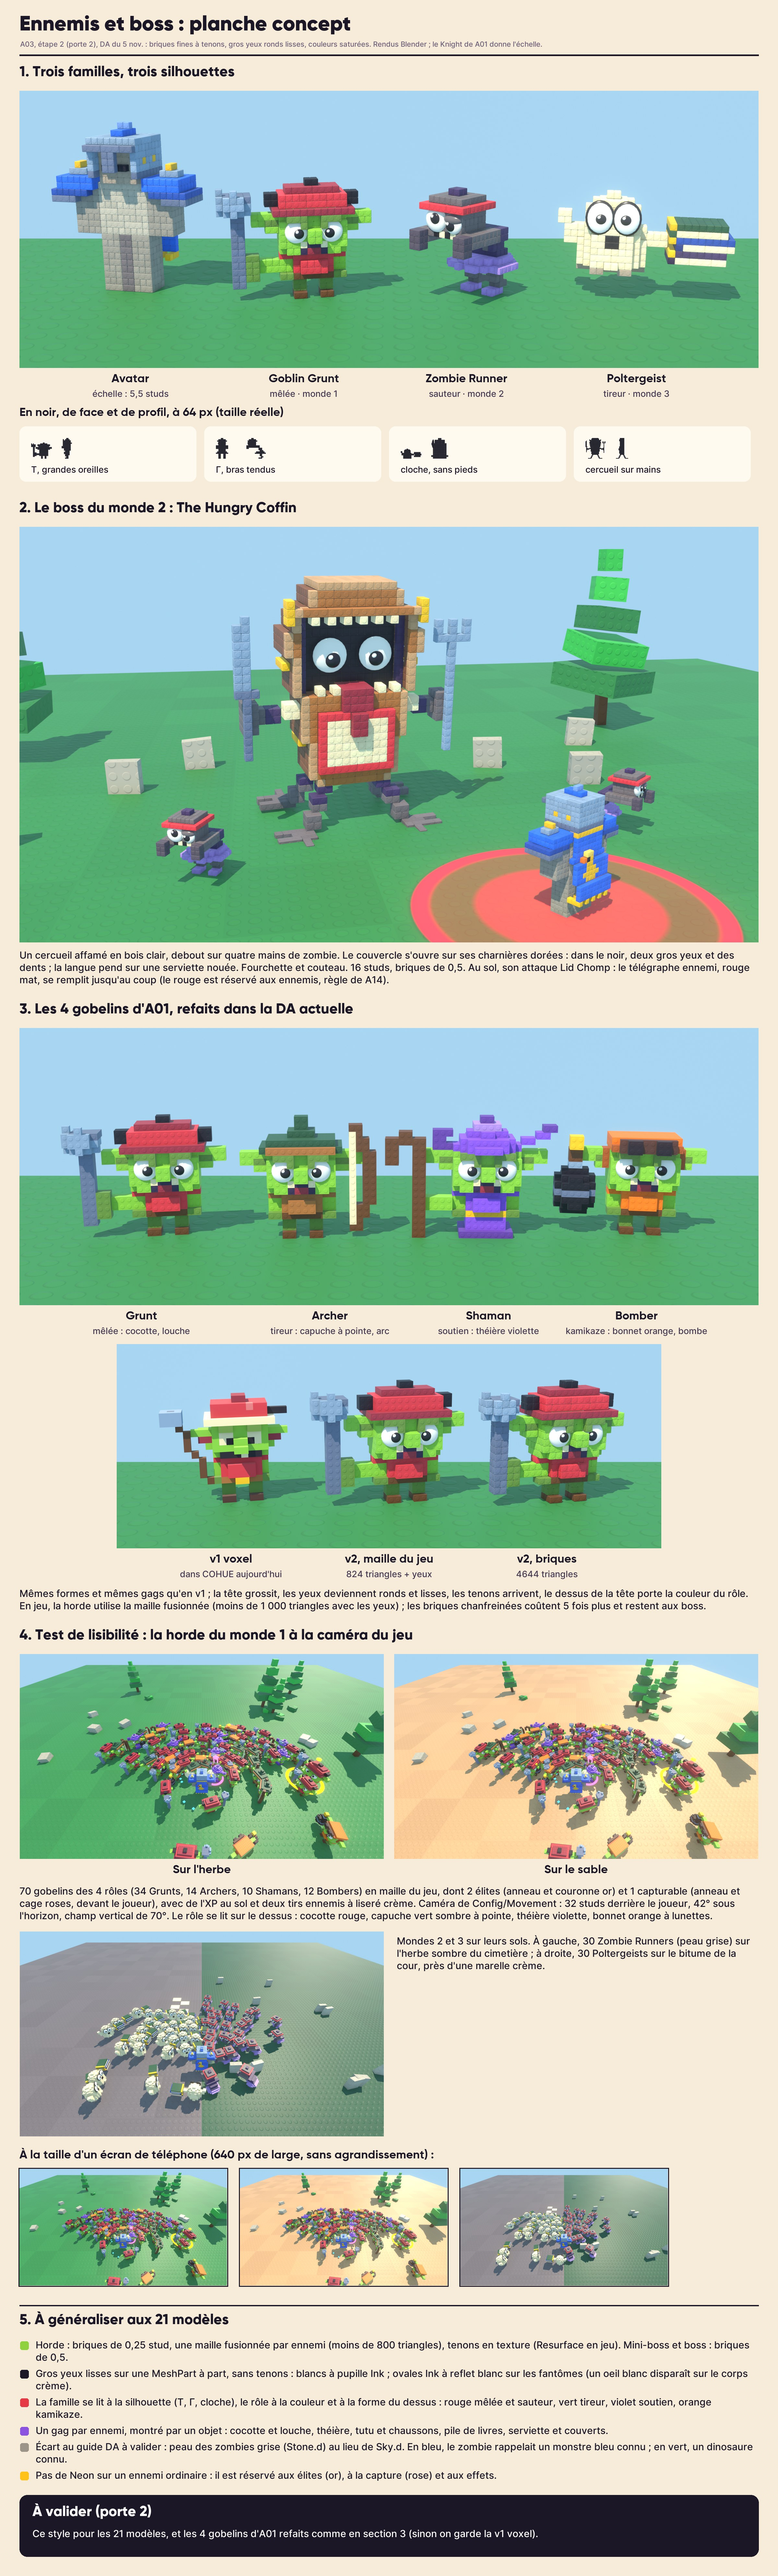
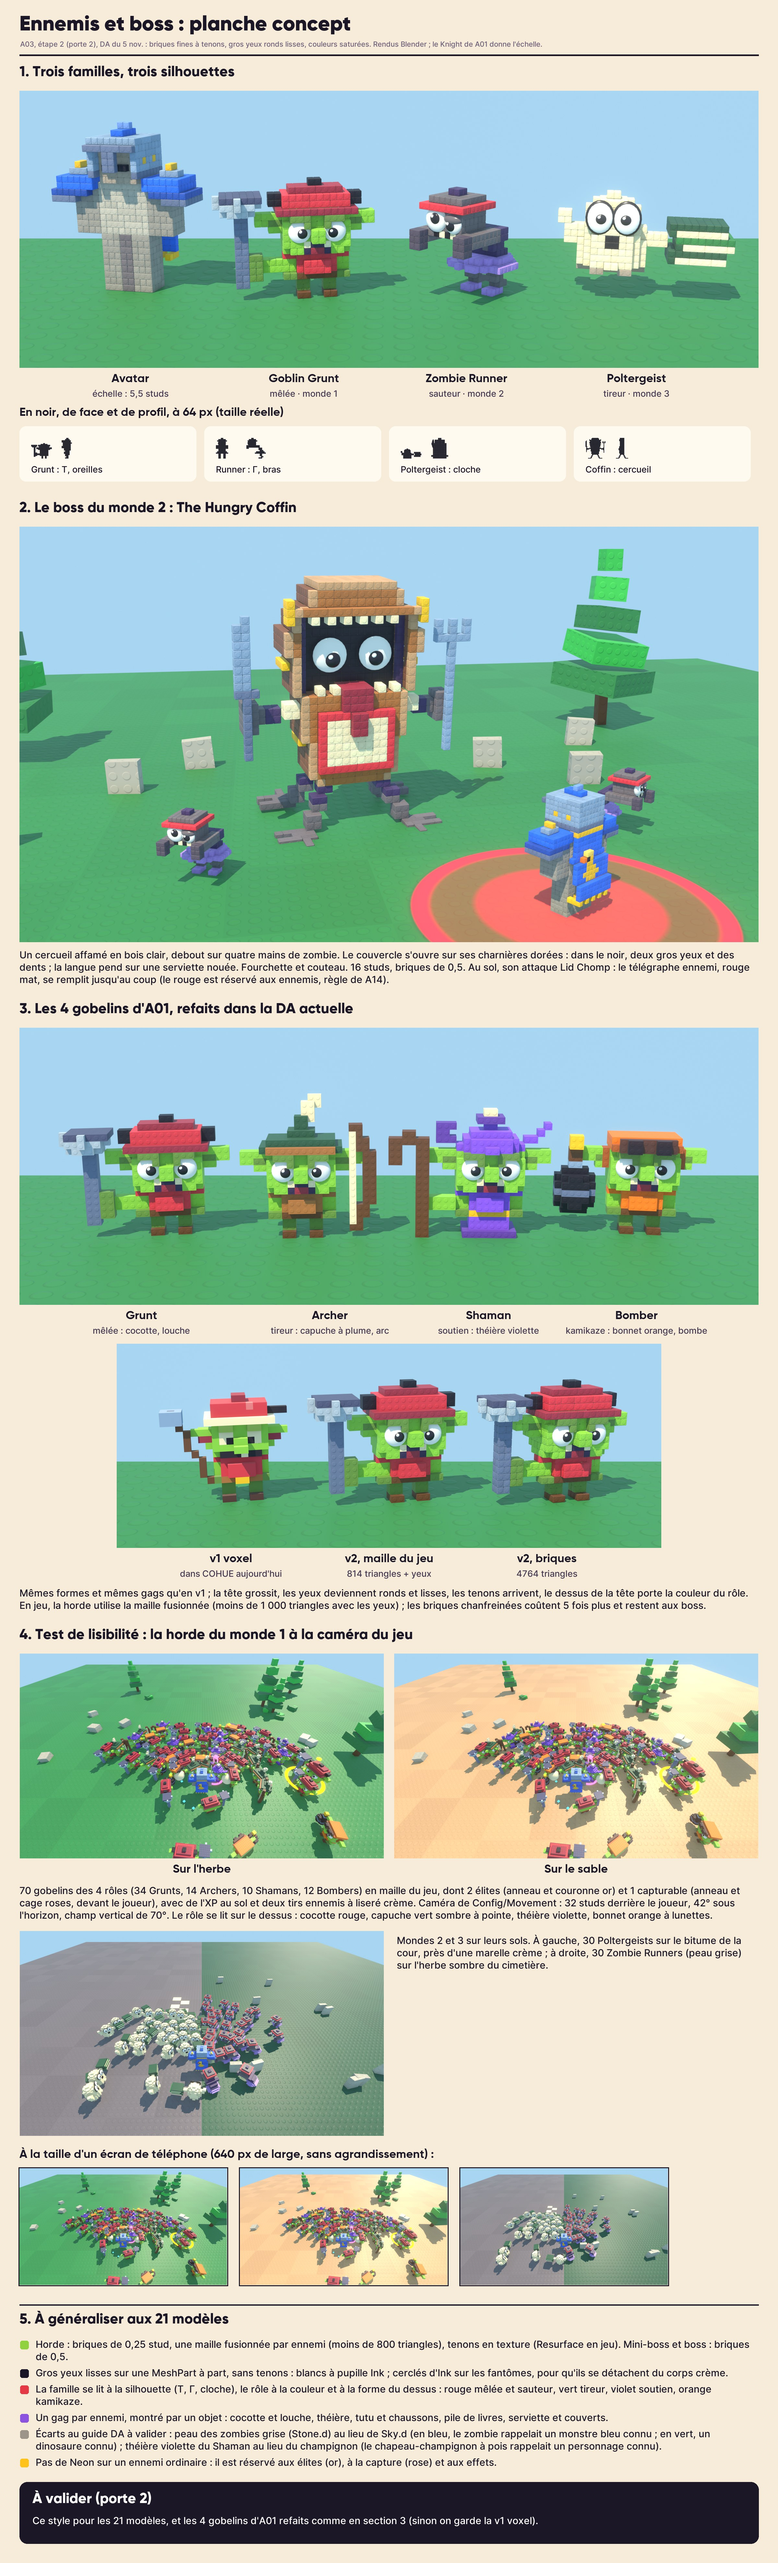
A03 : planche concept finale de l'étape 2 (tour 4 : 8,4 et 7,6), dossier 13 §10
Plume crème de l'Archer, livres verts, théière redessinée, louche plus
lisible, tirs ennemis dans l'espace libre, légendes corrigées ; état des
relectures et écarts au guide DA à valider.

diff --git a/assets/a03/creatures.py b/assets/a03/creatures.py
@@ -113,9 +113,9 @@ def goblin_grunt():
     v.box(-8, -5, -1, 0, 4, 5, "Lime")             # bras tendu sur le côté
     v.box(-10, -9, -2, -1, 3, 6, "Lime.d")         # main
     v.box(-12, -11, -2, -1, 2, 12, "Steel.d")      # manche droit
-    v.ell(-11.5, -1.5, 15.0, 2.6, 2.6, 2.6, "Steel", zmin=13, zmax=16)   # cuilleron rond
-    v.carve(-13, -10, -3, 0, 16, 16)               # creux
-    v.box(-13, -10, -3, 0, 15, 15, "Steel.d")
+    v.ell(-11.5, -1.5, 15.0, 3.2, 3.2, 2.6, "Steel.l", zmin=13, zmax=16)  # cuilleron rond de 6 x 6
+    v.carve(-14, -9, -4, 1, 16, 16)                # creux
+    v.box(-14, -9, -4, 1, 15, 15, "Steel.dd")
     return v, "bottom", {"kind": "enemy", "cell": 0.25, "eyes": GOBLIN_EYES, "label": "Goblin Grunt",
                          "role": "Mêlée · monde 1"}
 
@@ -131,6 +131,8 @@ def goblin_archer():
     v.box(-5, 4, -4, -4, 13, 13, "Leather")        # bord de la capuche
     v.box(-2, 1, -1, 2, 15, 15, "Leaf.dd")         # pointe dressée
     v.box(-1, 0, 0, 1, 16, 17, "Leaf.dd")
+    v.box(0, 1, 1, 2, 17, 19, "Cream")             # plume crème plantée dans la capuche : lisible sur l'herbe
+    v.box(1, 2, 2, 2, 19, 20, "Cream")
     v.box(-1, 0, 4, 4, 9, 13, "Leaf.dd")           # queue qui tombe dans le dos
     v.box(-1, 0, 5, 5, 6, 9, "Leaf.dd")
     # Grand arc tenu de côté (+X), tourné vers la caméra : une parenthèse qui sort de la silhouette
@@ -152,16 +154,18 @@ def goblin_shaman():
     v = goblin_base("Enemy_GoblinShaman", "Grape", belt="Gold", legs=False)
     v.box(-3, 2, -2, 1, 0, 2, "Grape")             # robe jusqu'au sol, évasée
     v.box(-4, 3, -3, 2, 0, 0, "Grape.d")
-    # Théière violette en guise de chapeau (soutien) : panse ronde, couvercle, bec et anse
-    v.ell(0, -0.5, 13.0, 5.0, 4.3, 3.0, "Grape", zmin=13, zmax=15)
-    v.box(-2, 1, -2, 1, 16, 16, "Grape.l")         # couvercle
-    v.box(-1, 0, -1, 0, 17, 17, "Grape.d")         # bouton
-    v.box(5, 6, -2, -1, 14, 14, "Grape")           # bec vers l'avant et le côté
-    v.box(7, 8, -3, -2, 15, 15, "Grape")
-    v.box(8, 9, -3, -2, 16, 16, "Grape.d")
-    v.box(-6, -6, -1, 0, 13, 13, "Grape.d")        # anse, collée à la panse
-    v.box(-6, -6, -1, 0, 15, 15, "Grape.d")
-    v.box(-8, -7, -1, 0, 13, 15, "Grape.d")
+    # Théière violette en guise de chapeau (soutien) : panse ronde, couvercle à bouton, bec et anse détachés.
+    # Écart au guide DA (§6 : « champignon magique violet ») : le chapeau-champignon à pois rappelait un
+    # personnage connu (relecture du 5 nov.)
+    v.ell(0, -0.5, 13.0, 4.8, 4.2, 3.6, "Grape", zmin=13, zmax=16)
+    v.box(-2, 1, -2, 1, 17, 17, "Grape.d")         # couvercle
+    v.box(-1, 0, -1, 0, 18, 18, "Cream")           # bouton
+    v.box(5, 6, -1, 0, 14, 14, "Grape")            # bec qui monte vers l'avant
+    v.box(7, 7, -1, 0, 15, 15, "Grape")
+    v.box(8, 8, -1, 0, 16, 16, "Grape")
+    v.box(-6, -6, -1, 0, 14, 14, "Grape.d")        # anse en boucle
+    v.box(-6, -6, -1, 0, 16, 16, "Grape.d")
+    v.box(-8, -7, -1, 0, 14, 16, "Grape.d")
     # Bâton de berger en bois, la crosse enroulée vers l'extérieur (main droite, -X)
     v.box(-9, -6, -2, -1, 4, 5, "Lime")            # bras tendu
     v.box(-11, -10, -3, -2, 0, 13, "Bark")
@@ -270,11 +274,9 @@ def ghost_poltergeist():
     v.box(5, 7, -1, 0, 4, 5, body)
     v.box(-7, -6, -1, 0, 4, 6, body)
     v.box(-8, -7, -1, 0, 7, 8, body)
-    _book(v, 8, 15, -3, 2, 2, "Plum")
-    _book(v, 9, 16, -3, 2, 4, "Royal.d")
-    _book(v, 8, 15, -3, 2, 6, "Leaf.dd")                          # le dessus est vert sombre (tireur)
-    for z in (3, 5, 7):
-        v.box(8, 8, -3, 2, z, z, "Gold")                          # filets dorés sur les dos
+    _book(v, 8, 15, -3, 2, 2, "Leaf.dd")                          # livres verts (couleur du rôle tireur)
+    _book(v, 9, 16, -3, 2, 4, "Leaf.d")
+    _book(v, 8, 15, -3, 2, 6, "Leaf.dd")
     # Yeux blancs cerclés d'Ink à pupille Ink (deux yeux noirs faisaient une tache sombre : un mouton de loin)
     eyes = [eye(-1.9, None, 8.6, 0.46, look=(0.15, -0.1), p=0.42, d=0.35, sz=1.25, rim=True),
             eye(1.9, None, 8.6, 0.46, look=(-0.15, -0.1), p=0.42, d=0.35, sz=1.25, rim=True)]

diff --git a/assets/a03/board.py b/assets/a03/board.py
@@ -76,8 +76,8 @@ def main():
     d.text((60, y), "En noir, de face et de profil, à 64 px (taille réelle)", font=NAME, fill=C.INK)
     y += 60
     x = 60
-    for key, name in (("goblin_grunt", "T, grandes oreilles"), ("zombie_runner", "Γ, bras tendus"),
-                      ("ghost_poltergeist", "cloche, sans pieds"), ("boss_hungry_coffin", "cercueil sur mains")):
+    for key, name in (("goblin_grunt", "Grunt : T, oreilles"), ("zombie_runner", "Runner : Γ, bras"),
+                      ("ghost_poltergeist", "Poltergeist : cloche"), ("boss_hungry_coffin", "Coffin : cercueil")):
         d.rounded_rectangle((x, y, x + 545, y + 170), radius=20, fill=(255, 250, 240))
         front, side = silhouette(key, 64), silhouette(key + "_side", 64)
         im.paste(front, (x + 36, y + 100 - front.height), front)
@@ -100,7 +100,7 @@ def main():
     y = section(d, y, "3. Les 4 gobelins d'A01, refaits dans la DA actuelle")
     box = C.paste_fit(im, r("a03_goblins.png"), (60, y, W - 60, y + 855))
     y = labels_under(d, box, [("Grunt", "mêlée : cocotte, louche", 0.165),
-                              ("Archer", "tireur : capuche à pointe, arc", 0.42),
+                              ("Archer", "tireur : capuche à plume, arc", 0.42),
                               ("Shaman", "soutien : théière violette", 0.635),
                               ("Bomber", "kamikaze : bonnet orange, bombe", 0.835)])
     box = C.paste_fit(im, r("a03_compare.png"), (360, y, W - 360, y + 630))
@@ -132,8 +132,8 @@ def main():
                TEXT, C.INK, W - 120) + 30
     box = C.paste_fit(im, r("a03_horde_w23.png"), (60, y, 60 + cw, y + ch))
     C.wrap(d, (box[2] + 40, y + 10),
-           "Mondes 2 et 3 sur leurs sols. À gauche, 30 Zombie Runners (peau grise) sur l'herbe sombre du "
-           "cimetière ; à droite, 30 Poltergeists sur le bitume de la cour, près d'une marelle crème.",
+           "Mondes 2 et 3 sur leurs sols. À gauche, 30 Poltergeists sur le bitume de la cour, près d'une "
+           "marelle crème ; à droite, 30 Zombie Runners (peau grise) sur l'herbe sombre du cimetière.",
            TEXT, C.INK, W - box[2] - 100)
     y = box[3] + 40
     d.text((60, y), "À la taille d'un écran de téléphone (640 px de large, sans agrandissement) :", font=NAME,
@@ -153,14 +153,15 @@ def main():
     rules = [
         ("Horde : briques de 0,25 stud, une maille fusionnée par ennemi (moins de 800 triangles), tenons en "
          "texture (Resurface en jeu). Mini-boss et boss : briques de 0,5.", "Lime"),
-        ("Gros yeux lisses sur une MeshPart à part, sans tenons : blancs à pupille Ink ; ovales Ink à reflet "
-         "blanc sur les fantômes (un oeil blanc disparaît sur le corps crème).", "Ink"),
+        ("Gros yeux lisses sur une MeshPart à part, sans tenons : blancs à pupille Ink ; cerclés d'Ink sur "
+         "les fantômes, pour qu'ils se détachent du corps crème.", "Ink"),
         ("La famille se lit à la silhouette (T, Γ, cloche), le rôle à la couleur et à la forme du dessus : "
          "rouge mêlée et sauteur, vert tireur, violet soutien, orange kamikaze.", "Tomato"),
         ("Un gag par ennemi, montré par un objet : cocotte et louche, théière, tutu et chaussons, pile de "
          "livres, serviette et couverts.", "Grape"),
-        ("Écart au guide DA à valider : peau des zombies grise (Stone.d) au lieu de Sky.d. En bleu, le zombie "
-         "rappelait un monstre bleu connu ; en vert, un dinosaure connu.", "Stone"),
+        ("Écarts au guide DA à valider : peau des zombies grise (Stone.d) au lieu de Sky.d (en bleu, le zombie "
+         "rappelait un monstre bleu connu ; en vert, un dinosaure connu) ; théière violette du Shaman au lieu du "
+         "champignon (le chapeau-champignon à pois rappelait un personnage connu).", "Stone"),
         ("Pas de Neon sur un ennemi ordinaire : il est réservé aux élites (or), à la capture (rose) et aux "
          "effets.", "Gold"),
     ]

diff --git a/assets/a03/concept.py b/assets/a03/concept.py
@@ -350,8 +350,8 @@ def view_horde(out, kind, fused=True):
         bpy.context.scene.collection.objects.link(gem)
         gem.data.materials.append(A14._solid_glow(cv.PALETTE["Sky"], 2.2))
         gem.location = (player[0] + math.cos(a) * rr, player[1] - 3 + math.sin(a) * rr, 0.45)
-    for (sx, sy) in ((-5.0, -6.0), (6.0, -7.0)):
-        enemy_shot((player[0] + sx * 0.45, player[1] + sy * 0.45, 2.2), (-sx, -sy, 0))
+    for (sx, sy) in ((-5.5, -1.5), (5.0, -2.5)):                  # dans l'espace vide, à côté du joueur
+        enemy_shot((player[0] + sx, player[1] + sy, 2.0), (-sx, -sy, 0))
     game_camera(sc, player)
     A14.render(sc, out, res=(1600, 900), samples=48)
 

diff --git a/docs/dossier/13-ennemis-boss.md b/docs/dossier/13-ennemis-boss.md
@@ -296,30 +296,35 @@ Les ids d'ennemis utilisés par le serveur (`Worlds.roster`, `Bosses.kind`, `sum
 
 ---
 
-## 10. Étape 2 : planche concept (en cours, porte 2 pas encore présentée)
+## 10. Étape 2 : planche concept (porte 2 présentée à Clément)
 
-Planche : `assets/a03/01-ennemis-boss-concept.jpg`. Sources : `assets/a03/creatures.py` (modèles sur grille), `assets/a03/concept.py` (rendus Blender 5.2 en ligne de commande), `assets/a03/board.py` (montage).
+Planche : `assets/a03/01-ennemis-boss-concept.jpg`. Sources :
+- `assets/a03/creatures.py` : les modèles sur grille ;
+- `assets/a03/concept.py` : les rendus Blender 5.2 en ligne de commande ;
+- `assets/a03/board.py` : le montage.
 
-Modélisés : Goblin Grunt, Archer, Shaman, Bomber (v2), Zombie Runner, Poltergeist, The Hungry Coffin. La horde est rendue en maille fusionnée du jeu (technique B) : 694 à 760 triangles par ennemi, plus les yeux. En briques chanfreinées, un ennemi en coûte environ 3 500 à 4 200.
+Modélisés : Goblin Grunt, Archer, Shaman et Bomber (v2), Zombie Runner, Poltergeist et The Hungry Coffin. La horde est rendue en maille fusionnée du jeu (technique B) : environ 700 triangles par ennemi, plus les yeux. En briques chanfreinées, un ennemi en coûterait 3 500 à 4 900.
 
 **Relectures à l'aveugle** (2 relecteurs par tour, seuil 8,5) :
-- tour 1 : 7,2 et 6 ;
-- tour 2 : 7,1 et 7,0.
 
-**À corriger au tour 3** (convergence des relecteurs du tour 2) :
-1. **Ressemblances avec des licences** :
-   - chapeau-champignon à pois du Shaman (un personnage Nintendo connu) : le remplacer par une théière violette, dans la lignée de la cocotte du Grunt ;
-   - tête brune du boss à sourcils noirs (idem) ;
-   - zombie bleu aux yeux globuleux (« Blue » de Rainbow Friends, un jeu Roblox connu) : peau vert éteint Leaf.d (à valider par Clément, le guide dit Sky.d), rendu de trois-quarts pour montrer le Γ.
-2. **Boss** : cercueil en bois clair (tons de Leather), hexagonal à sommet plat, liseré Leather.dd. Le haut du couvercle est soulevé : dans le noir, deux gros yeux blancs, des dents sur les bords, une langue Tomato. Pas de sourcils, poignées Steel, pas de Gold, serviette Cream à carreaux Tomato 2 × 2, mains Leaf.d. 5 couleurs principales au plus.
-3. **Grunt** :
-   - cocotte haute de 4 briques, bouton 2 × 2, anses à mi-hauteur collées aux parois ;
-   - louche en bois avec un cuilleron rond 4 × 4 : plus d'acier qui scintille comme de l'XP ;
-   - bouche ouverte sur 2 rangées, intérieur Plum.dd et dents : plus de moustache sous le nez.
-4. **Archer** : capuche Leaf.d (guide §6), pointe qui tombe dans le dos. Le brun se confondait avec l'orange du Bomber.
-5. **Bomber** : retirer le sac d'XP, qui se lit comme un cupcake.
-6. **Poltergeist** : pile de 3 livres décalés d'une brique, tranches Cream, dos visibles ; bouche Ink.
-7. **Test de horde** :
-   - sol calme (Leaf.d à ±4 %, sans dalles claires) ;
-   - horde plus serrée autour du joueur ;
-   - quelques XP, 2 tirs Tomato, 1 capturable, 2 élites.
+| Tour | Notes | Moyenne | Ce qui a changé ensuite |
+| --- | --- | --- | --- |
+| 1 | 7,2 et 6 | 6,6 | cocotte sans bord crème, 3 gobelins v2 de plus, test de horde du monde 1 avec les 4 rôles |
+| 2 | 7,1 et 7,0 | 7,05 | ressemblances retirées (chapeau-champignon, tête brune à sourcils, zombie bleu), Grunt sans moustache, sol calme |
+| 3 | 7,6 et 7,5 | 7,55 | zombie gris, yeux blancs cerclés pour le fantôme, cercueil à bouche noire, capturable et tirs visibles, test des mondes 2 et 3 |
+| 4 | 8,4 et 7,6 | 8,0 | corrections légères : plume crème de l'Archer, livres verts, théière redessinée, légendes corrigées |
+
+Le coordinateur a demandé de présenter la planche après ce tour, même sous 8,5.
+
+**Points encore ouverts** (relecteur le plus sévère du tour 4) :
+- le zombie se lit encore mal comme zombie (« un rat ou un pigeon en tutu ») ;
+- le cercueil se lit comme un coffre piégé ;
+- la louche et la théière restent difficiles à lire.
+
+Ces trois points se règlent à l'étape 3, modèle par modèle, avec un contrôle qualité à 8,5 (étape 5).
+
+**Écarts au guide DA, à valider par Clément** :
+- peau des zombies grise (Stone.d) au lieu de Sky.d : en bleu, le zombie rappelait un monstre bleu connu, et en vert, un dinosaure connu ;
+- théière violette pour le Shaman au lieu du champignon : le chapeau-champignon à pois rappelait un personnage connu ;
+- yeux blancs cerclés d'Ink sur les fantômes, au lieu d'yeux Ink : deux yeux noirs faisaient une tache sombre, et de loin le fantôme passait pour un mouton ;
+- couleur du sauteur : Tomato, comme la mêlée.
